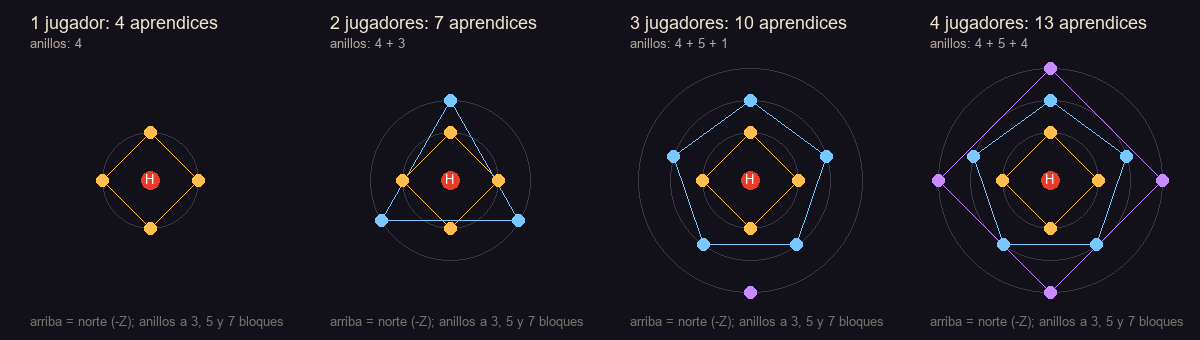
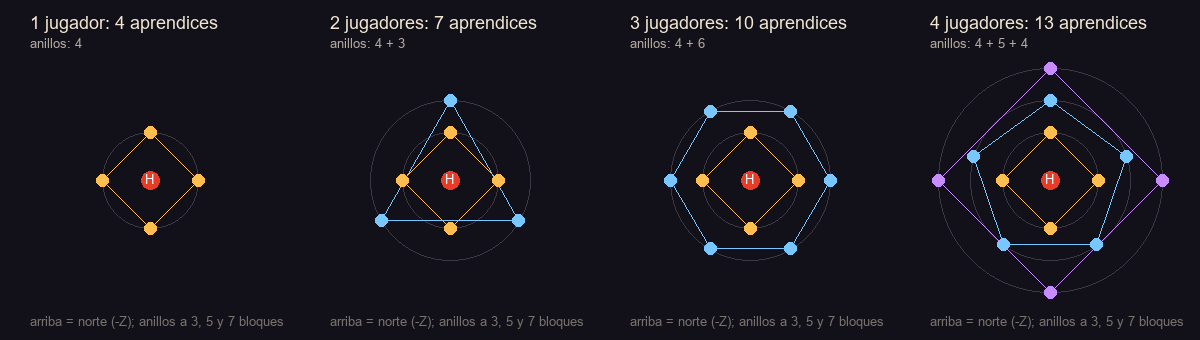
Forja: respuestas de Andy y Reforjado estelar en el diseño de la dimensión del Herrero
Nombres, oricalco, 4 + 6 aprendices, revancha con fragua fría en el centro,
Estrella que pasa el tope de armadura y los tres eventos aprobados; propuesta del
Reforjado estelar (su invulnerabilidad de la mitad solo la rompe la dimensión).

diff --git a/forja/docs/HERRERO_DIMENSION.md b/forja/docs/HERRERO_DIMENSION.md
@@ -12,9 +12,10 @@ recompensa esperan a que Andy revise la dimensión. Cada sección dice en qué e
 
 | Entrega | Qué lleva | Estado |
 |---|---|---|
-| 1 | Dimensión: terreno, arena, cielo, niebla, luz, partículas, sonido y música; `/forja dimension` | en esta rama |
+| 1 | Dimensión: terreno, arena, cielo, niebla, luz, partículas, sonido y música; `/forja dimension` | hecha y revisada por Andy |
+| 1b | Arreglos de la revisión: sol bajo el vacío, tumbas que caen con su suelo, tumbas vistas desde el sur, meseta según la semilla, estrellas fugaces y cielo que se mueve | en esta rama |
 | 2 | Oricalco, perla de oricalco, marco del portal, portal, retirada de la invocación vieja | pendiente de Andy |
-| 3 | Pelea nueva: llegada, fases a 2/3 y 1/3, aprendices en formación, eventos, persistencia, estrella de vuelta y recompensa | pendiente de Andy |
+| 3 | Pelea nueva: llegada, fases a 2/3 y 1/3, aprendices en formación, eventos, reforjado estelar, persistencia, estrella de vuelta, revancha y recompensa | diseño aprobado en parte (ver 6); pendiente |
 
 ---
 
@@ -121,7 +122,9 @@ lo comprueba. La rotonda se queda como sala del portal, sin bloqueo de construcc
 ### 2.2 El generador: barato a propósito
 
 Un generador propio (`world/StarYardGenerator`), **sin ruido**: cada columna se calcula con unas pocas sumas de
-senos y un hash, sin muestrear nada. Todo lo que no es la meseta es aire, que es lo más barato que hay. No tiene
+senos y un hash, sin muestrear nada. **La meseta depende de la semilla del mundo** (Andy, revisión de la entrega 1):
+`world/StarYardLayout` saca de la semilla, una sola vez, unas pocas decenas de números (ver 2.3) y luego cada
+columna usa esos números y un hash que lleva la semilla. La arena es la misma en todos los mundos. Todo lo que no es la meseta es aire, que es lo más barato que hay. No tiene
 estructuras, así que `/locate` no tiene nada que buscar aquí y no puede congelar el juego; el teletransporte carga
 chunks casi vacíos. Medido en la entrega 1 (ver 2.9).
 
@@ -136,17 +139,30 @@ Coordenadas con el centro de la arena en (0, 0). La superficie base está en **y
 | **Explanada** (el Taller) | 24 a 34 | obsidiana y piedra negra | 4 pilares con braseros de metal fundido; plataforma de llegada al norte |
 | **Cementerio en filas** | 34 a 72 | ceniza | tumbas en anillos alrededor de la arena, cada 4 bloques |
 | **Cementerio disperso** | 72 al borde | ceniza, ceniza prensada, basalto | armas sueltas, campos de fosas y forjas frías |
-| **Borde** | 124 a 176 (ondulado) | cantil de obsidiana | se cae al vacío |
+| **Borde** | unos 108 a 192, según la semilla | cantil de obsidiana | se cae al vacío |
 
-- **Forma del borde:** radio `150 + 14 sen(3θ + 1,1) + 8 sen(7θ + 2,3) + 4 sen(13θ + 0,4)`, entre 124 y 176
-  bloques. No es un círculo: tiene cabos y ensenadas.
-- **Relieve:** la arena y la explanada son planas. Desde el radio 34 la ceniza ondula ±3 bloques con suavidad, y
-  llega entera al radio 54.
+**Lo que cambia con la semilla** (lo demás es fijo):
+
+| Qué | Cómo varía |
+|---|---|
+| Forma del borde | radio base de 138 a 162, más tres ondas de 2–4, 5–8 y 9–14 lóbulos, de 10–16, 5–9 y 2–5 bloques de alto y giro al azar |
+| Ríos | de 2 a 4, repartidos alrededor con ±20° de juego (nunca a menos de 70° uno de otro); cada uno serpentea con dos ondas propias (6–11 y 3–5 bloques) |
+| Puentes | uno entre 70 y 82 bloques del centro y otro entre 100 y 120 |
+| Islotes | de 5 a 9, de 7 a 18 de radio, a entre 25 y 95 bloques del borde y a y 55–120, sin pisarse |
+| Tumbas | separación en las filas de 3,0 a 3,6; sueltas del 4 al 6 %; en fosas del 12 al 20 %; una celda de fosas de cada 4 a 6 |
+| Forjas frías | celdas de 22 a 26 bloques, una de cada dos |
+| Relieve y manchas | las ondas de la ceniza, las manchas de ceniza prensada y los afloramientos de basalto se estiran y desplazan; las manchas van torcidas por otra onda para que no salgan en filas |
+| Cada elección suelta | (qué arma, qué inclinación, grietas del suelo…) lleva la semilla en el hash |
+
+- **La arena no cambia:** su suelo, su muro, los pilares y la plataforma de llegada son los mismos en todos los
+  mundos (lo comprueba `theSeedShapesThePlateauButNotTheArena`, que también dibuja los mapas de dos semillas).
+- **Relieve:** la arena y la explanada son planas. Desde el radio 34 la ceniza ondula unos ±3 bloques con suavidad,
+  y llega entera al radio 54.
 - **Por debajo:** la meseta es un cono invertido de 4 a 68 bloques de grueso (más gruesa en el centro), con capas de
   ceniza (2), obsidiana (2 o 3: la "losa del Taller", que se ve como una franja negra en los cantiles), piedra negra
   y basalto, y betas de obsidiana llorona.
-- **Islotes:** 7 islotes de obsidiana flotan alrededor, entre 205 y 262 bloques del centro y a distintas alturas
-  (y 55 a 118), de 7 a 18 de radio. Algunos llevan una tumba o una forja rota. Son lo que se ve a lo lejos.
+- **Islotes:** de 5 a 9 islotes de obsidiana flotan alrededor, a distintas alturas. Algunos llevan una tumba. Son
+  lo que se ve a lo lejos.
 
 ### 2.4 La arena y la llegada
 
@@ -167,13 +183,18 @@ Coordenadas con el centro de la arena en (0, 0). La superficie base está en **y
   punta, medio hundida. 6 armas: espada, espada negra, hacha, tridente, maza y pico, con las texturas vanilla
   recoloreadas a hierro oxidado y quemado. 4 orientaciones y 3 inclinaciones (0°, 22,5° hacia un lado y hacia el
   otro) por arma.
-- **En filas (radio 34 a 72):** anillos cada 4 bloques y una tumba cada 3,2 bloques de anillo, mirando a la
-  arena. Falta una de cada 7 (tumbas saqueadas). Unas 450.
-- **Dispersas (radio 72 al borde):** un 5 % de las columnas, y un 16 % en los "campos de fosas" (celdas de 16 × 16
-  que salen 1 de cada 5). Unas **3.500 tumbas** en total. Una de cada cinco tiene un montón de ceniza prensada
-  debajo.
-- **Forjas frías:** en celdas de 24 × 24, una de cada dos tiene una forja en ruinas, lejos de los ríos y de la
-  arena (radio 76 al borde menos 14). Salen 37. Tres modelos:
+  - **Se ven bien desde los cuatro lados** (arreglo de la revisión): la cara de atrás de la carta llevaba la misma
+    uv que la de delante, y como una cara norte recorre la x al revés, desde el norte el arma salía tumbada. Ahora
+    cada cara trasera tiene la uv que pone el mango y la cabeza en el mismo sitio que la delantera.
+  - **Caen con su suelo** (arreglo de la revisión): si se quita el bloque de debajo, el arma desaparece sin soltar
+    nada, como una antorcha sin pared. Rota a mano tampoco suelta nada. No se puede poner en el aire.
+- **En filas (radio 34 a 72):** anillos cada 4 bloques y una tumba cada 3,0–3,6 bloques de anillo (según la
+  semilla), mirando a la arena. Falta una de cada 7 (tumbas saqueadas).
+- **Dispersas (radio 72 al borde):** del 4 al 6 % de las columnas, y del 12 al 20 % en los "campos de fosas"
+  (celdas de 16 × 16, una de cada 4 a 6). Entre **3.000 y 5.100 tumbas** según la semilla (medido en 5 semillas).
+  Una de cada cinco tiene un montón de ceniza prensada debajo.
+- **Forjas frías:** en celdas de 22 a 26 bloques, una de cada dos tiene una forja en ruinas, lejos de los ríos y de
+  la arena (radio 76 al borde menos 14). Salen de 17 a 42 según la semilla. Tres modelos:
   - **Fragua fría:** suelo de 7 × 7 de ladrillo agrietado, pared del fondo rota, un alto horno apagado con su
     chimenea, un yunque dañado y un caldero vacío.
   - **Yunques rotos:** tres yunques (mellado, dañado y entero) alrededor de una piedra de afilar, y dos armas
@@ -185,11 +206,12 @@ Coordenadas con el centro de la arena en (0, 0). La superficie base está en **y
 
 ### 2.6 El metal fundido (solo decoración)
 
-- **3 ríos** de metal fundido (`forja:metal_fundido`), a 30°, 150° y 270°. Nacen en un pilón a 52 bloques del
+- **De 2 a 4 ríos** de metal fundido (`forja:metal_fundido`), según la semilla. Nacen en un pilón a 52 bloques del
   centro (una piletita con un chorro que cae de un dintel de obsidiana) y serpentean hasta el borde.
 - **Cauce:** 3 de ancho, con el metal un bloque por debajo del suelo. Las dos orillas llevan un **muro** de
   ladrillo de piedra negra pulida (1,5 de alto: no se salta), así que no se puede caer por accidente.
-- **Puentes:** a 76 y 112 bloques del centro, de 5 de ancho, cerrados con muro por los lados.
+- **Puentes:** dos anillos de puentes (entre 70 y 82, y entre 100 y 120 bloques del centro), de 5 de ancho,
+  cerrados con muro por los lados.
 - **Cascadas:** donde un río llega al borde, el metal cae por el cantil hacia el vacío y se pierde abajo, a
   y ≈ 4, soltando gotas.
 - **Si alguien se mete:** quema como la lava (4 de daño por segundo y fuego) y frena, pero se puede salir andando.
@@ -202,24 +224,41 @@ Coordenadas con el centro de la arena en (0, 0). La superficie base está en **y
   **naranja de brasa** justo abajo, como si en el fondo del vacío hubiera lava o un horno. Es un degradado:
   - en el horizonte, violeta oscuro (`#1B1624`), sin brillo;
   - a −30°, granate (`#5A1A12`), a media fuerza;
-  - mirando recto abajo, naranja de brasa (`#FF6A1E`), a toda fuerza, con un halo más claro en el centro que
-    respira despacio (±12 % cada 7 s).
+  - mirando recto abajo, naranja de brasa (`#FF6A1E`), a toda fuerza.
+  - **Un sol debajo** (Andy, revisión de la entrega 1: "como si estuvieras encima de un sol"): al fondo, justo
+    abajo, un cuerpo enorme y cegador. De fuera a dentro:
+    - un halo rojo muy ancho;
+    - 28 rayos largos y finos, cada uno de su largo, que parpadean y giran despacio;
+    - dos coronas que giran una contra otra;
+    - un brillo de calor: 12 manchas de luz que rondan el núcleo y tiemblan;
+    - el núcleo, blanco y amarillo, que ciega.
+
+    Todo respira despacio (±8 % cada 7 s).
+  - **Se apaga con la altura:** entero hasta 30 bloques por encima de la arena (y = 110) y apagado a 90 por encima
+    (y = 170). Tiene que apagarse: el sol cuelga dentro de la distancia que la niebla deja limpia, y desde muy alto
+    la meseta queda más lejos que él, así que se dibujaba delante de ella.
   - La **niebla** hace lo mismo: cuanto más miras hacia abajo, más se tiñe de brasa (hasta un 55 % mirando recto
     abajo), y también cuanto más bajo estás (a y = 20 ya es media brasa).
-  - **Brasas que suben:** chispas que brillan solas suben despacio desde el fondo por debajo de la meseta, fuera de
-    su sombra (unas 3 por tick alrededor del jugador, de 10 a 60 bloques por debajo de él).
+  - **Brasas que suben:** chispas que brillan solas suben despacio desde el fondo (unas 3 por tick alrededor del
+    jugador, de 10 a 60 bloques por debajo de él), donde no hay meseta encima o por debajo de y = 8. El cliente lo
+    mira en su propio mapa de alturas, porque la forma de la meseta es de la semilla y el cliente no la sabe.
 - **Estrellas:** por debajo del horizonte se apagan en el resplandor: del todo a −35°.
 - **Estrellas:** las 1.500 de vanilla a brillo pleno, y 900 más del mod, de colores (blancas, azules, doradas y
   alguna roja), que titilan despacio.
-- **Una franja de nebulosa** (como una vía láctea) de violeta a ámbar, cruzando el cielo.
+- **Una franja de nebulosa** (como una vía láctea) de violeta a ámbar, cruzando el cielo. Deriva un poco más
+  deprisa que las estrellas, respira (±20 % cada 23 s) y sus nudos más brillantes se deslizan despacio a lo largo.
+- **Estrellas fugaces** (Andy, revisión): unas 4 por minuto, al azar, bien por encima del horizonte. Cada una es un
+  destello de un cuarto a dos quintos de segundo con una cola corta que se afina.
 - **8 constelaciones que dibujan moldes de armas**, repartidas por el cielo: **Espada, Hacha, Martillo, Lanza,
   Escudo, Yunque, Tenazas y Guadaña**. Cada una es un contorno de 8 a 14 estrellas grandes unidas por líneas
   tenues, como el hueco de un molde visto desde arriba.
 - **La colada del cielo:** cada 40 segundos una constelación "se cuela": un hilo de metal dorado recorre sus líneas
   de un extremo a otro en 6 s, se queda encendida 4 s y se enfría. En la pelea (entrega 3) es el aviso del evento
   *Molde celeste*.
-- Todo gira muy despacio alrededor del eje norte-sur (una vuelta cada 40 minutos), para que el cielo esté vivo.
-- **Día o noche:** no hay. Es siempre la misma noche; lo que cambia es la colada y el giro.
+- **El cielo se mueve** (Andy, revisión): estrellas, nebulosa y constelaciones giran alrededor del eje norte-sur,
+  **una vuelta cada 12 minutos** (medio grado por segundo; antes era cada 40 minutos y no se notaba). Quieto y
+  mirando arriba se ve moverse; en 10 s la hoja de contactos lo muestra.
+- **Día o noche:** no hay. Es siempre la misma noche; lo que cambia es la colada, el giro y las estrellas fugaces.
 
 ### 2.8 Ambiente
 
@@ -270,7 +309,7 @@ Cuando un jugador entra en la dimensión y no hay pelea en curso:
 | Fase | Vida | Qué cambia |
 |---|---|---|
 | 1 | 100 % a 66,7 % (320 a 213) | golpe, onda, "La forja reclama". **Sin aprendices.** |
-| 2 | 66,7 % a 33,3 % (213 a 107) | primera oleada; se suma el garfio y el reforjado de ascuas |
+| 2 | 66,7 % a 33,3 % (213 a 107) | primera oleada; se suma el garfio; **a la mitad (160), el Reforjado estelar** (3.7) |
 | 3 | 33,3 % a 0 | segunda oleada; lluvia de estrellas, yunques del final |
 
 Las fases viejas (75 %, 50 % y 25 %) desaparecen. Una fase solo se pasa una vez, aunque se cure (no se cura).
@@ -295,7 +334,9 @@ Al cruzar 2/3 y 1/3:
   - el anillo de dentro es un **cuadrado** (4), a 3 bloques;
   - cada anillo siguiente tiene **un vértice más** (pentágono, hexágono…), 2 bloques más afuera (5, 7, 9…);
   - se llenan de dentro afuera;
-  - lo que sobra en el último anillo forma **su propio polígono regular, más pequeño**, en ese mismo radio.
+  - lo que sobra en el último anillo forma **su propio polígono regular, más pequeño**, en ese mismo radio;
+  - **pero si sobran 1 o 2** (que no son un polígono), se suman al anillo anterior, que crece: con 10, el
+    pentágono pasa a **hexágono** y queda 4 + 6 (Andy, respuesta 3). Con 7 sigue siendo cuadrado + triángulo.
 - **Giro:** el primer vértice de cada anillo apunta al sur (+Z). Los anillos impares se giran medio lado para que
   no queden alineados con los de dentro.
 
@@ -303,13 +344,11 @@ Al cruzar 2/3 y 1/3:
 |---|---|---|---|
 | 1 | 4 | cuadrado | (0, 3), (3, 0), (0, −3), (−3, 0) |
 | 2 | 7 | cuadrado + **triángulo** | lo anterior + (4,3, 2,5), (0, −5), (−4,3, 2,5) |
-| 3 | 10 | cuadrado + pentágono + **1** | cuadrado + (2,9, 4), (4,8, −1,5), (0, −5), (−4,8, −1,5), (−2,9, 4) + (0, 7) |
-| 4 | 13 | cuadrado + pentágono + **cuadrado** | lo de 3 sin el (0, 7) + (0, 7), (7, 0), (0, −7), (−7, 0) |
+| 3 | 10 | cuadrado + **hexágono** | cuadrado + (2,5, 4,3), (5, 0), (2,5, −4,3), (−2,5, −4,3), (−5, 0), (−2,5, 4,3) |
+| 4 | 13 | cuadrado + pentágono + **cuadrado** | cuadrado + (2,9, 4), (4,8, −1,5), (0, −5), (−4,8, −1,5), (−2,9, 4) + (0, 7), (7, 0), (0, −7), (−7, 0) |
 
 ![Formaciones](herrero_dimension_formaciones.png)
 
-Con 3 jugadores el resto es 1, y "un polígono de un vértice" es un aprendiz solo, al sur a 7 bloques. Ver las
-decisiones para Andy.
 
 Si un puesto cae en un bloque sólido o fuera de la arena, el aprendiz sale en el punto libre más cercano del
 mismo anillo.
@@ -332,14 +371,60 @@ Cada **35 a 45 s** la dimensión hace algo, por turnos, y nunca durante una lleg
    persecución baja de 48 a 16. Sirve para despistarle o para perderle de vista.
 
 Con los números en `config/forja.json` (`dimensionEventoCada`, `dimensionMoldeDano`, `dimensionCenizaSegundos`…).
+Andy aprobó los tres (respuesta 6).
 
-### 3.7 Morir y volver
+### 3.7 El Reforjado estelar: su invulnerabilidad, rota por la dimensión (propuesta para Andy)
+
+**Lo que hay hoy** (`FallenSmith.startReforge`/`reforge`): a la mitad de la vida, después de llamar a los
+aprendices, vuelve a la forja y **nada le hace daño** mientras reforja (`hurtServer` lo ignora todo si
+`reforging > 0`). Enciende **3 ascuas** (bloques de fuego a 5 bloques), cada ascua encendida le cura un 1 % por
+segundo, y el reforjado dura **160 ticks** (8 s) o hasta que se apaguen las tres. Es corto y se resuelve a
+puñetazos contra el fuego.
+
+**Lo que propongo en la dimensión:** que en esa fase **la dimensión sea el arma**. Él es intocable y lo único que
+rompe su escudo es lo que la dimensión hace caer, arder o derramarse.
+
+1. **Empieza:** a la mitad (160 de vida), se arrodilla en el disco de obsidiana llorona del centro, clava el
+   martillo y el cielo entero se vuelve hacia él: las constelaciones se encienden en oro a la vez. Queda
+   **invulnerable** (como hoy) durante **hasta 20 s** (400 ticks).
+2. **Las Brasas estelares:** en lugar de 3 fuegos, **3 + 1 por jugador extra (hasta 6)** brasas flotantes (una
+   entidad nueva, sin bloque, así que el bloqueo de construir de la arena no molesta), en un anillo de **9 a 12
+   bloques** alrededor de él. Cada una está unida a él por un haz dorado. Mientras quede una:
+   - es invulnerable;
+   - le cura un **1 % por segundo por brasa** (como hoy);
+   - **los golpes de los jugadores no les hacen nada.** Solo las rompe la dimensión.
+3. **Tres maneras de romperlas, las tres de la dimensión:**
+   - **Hierro estelar templado:** al empezar, la dimensión deja caer **un meteorito por brasa**, con su aviso de 34
+     ticks, a entre 10 y 16 bloques de ella. Cada uno deja un **hierro estelar ardiente** (un objeto que quema 10 s
+     en la mano: 1 de daño por segundo a quien lo lleve). Llevarlo hasta una brasa y tocarla con él (clic derecho)
+     la **rompe** ("temple"). El pararrayos, puesto antes de la pelea, sirve para que caigan más cerca.
+   - **Molde celeste redirigido:** cada 8 s durante el reforjado, un molde se proyecta en el suelo **centrado en el
+     jugador al que mira el Herrero**, y a los 3 s arde. Una brasa que quede bajo una línea que arde **se rompe**.
+     El jugador hace de cebo: se coloca para que el molde pase por las brasas, y tiene que salir de la línea a
+     tiempo (6 de daño y fuego si no).
+   - **La colada del brasero:** golpear uno de los 4 braseros de los pilares (con un proyectil, o subiendo) lo
+     **vuelca**: un chorro de metal fundido baja por el pilar y corre en línea recta hacia el centro durante 3 s,
+     1 bloque de ancho, **rompiendo las brasas que toca** y quemando a quien pise (jugadores y aprendices; el metal
+     se enfría y desaparece, la arena no cambia). Cada brasero se vuelca una vez por reforjado y se vuelve a
+     llenar después. Hay que elegir el brasero cuya línea pase por más brasas.
+4. **Si se rompen todas antes de 20 s:** el escudo estalla (la onda morada de fase), y queda **aturdido 5 s**:
+   no ataca y recibe **×1,5 de daño**. Es el premio de usar bien la dimensión.
+5. **Si se acaba el tiempo con brasas encendidas:** se levanta curado de lo que haya curado y con **Temple** 30 s:
+   recibe un **30 % menos** de daño. Es el castigo de no usarla.
+6. **Los eventos normales** (3.6) se paran durante el reforjado: la dimensión está ocupada en él.
+7. **Una vez por pelea.** Si alguien muere o sale, la persistencia (3.8) guarda también si ya hubo reforjado y cuántas
+   brasas quedan.
+
+Números de partida, en `config/forja.json`: `reforjadoTicks` 400, `reforjadoBrasasBase` 3, `reforjadoBrasasMax` 6,
+`reforjadoCuraPorBrasa` 0,01, `reforjadoAturdido` 100 ticks, `reforjadoAturdidoDano` 1,5, `reforjadoTemple` 0,3.
+
+### 3.8 Morir y volver
 
 - Un jugador que muere **reaparece en su punto normal** (su cama o el punto de aparición del mundo), porque en la
   dimensión no se puede fijar otro.
 - Puede volver a entrar: el portal sigue encendido.
 - **La pelea se queda exactamente como estaba:** la vida del jefe, su fase, las oleadas que ya salieron y los
-  aprendices vivos. **No se cura.**
+  aprendices vivos. **No se cura** (salvo por sus brasas durante el Reforjado estelar, como hoy).
 - **Se para mientras no haya ningún jugador en la dimensión:** no se mueve, no ataca, no cuenta esperas ni
   eventos. En cuanto entra alguien, sigue (sin volver a caer del cielo).
 - Lo guarda un `SavedData` de la dimensión: estado (esperando, en pelea, derrotado), el UUID del jefe, la fase, las
@@ -347,7 +432,7 @@ Con los números en `config/forja.json` (`dimensionEventoCada`, `dimensionMoldeD
   el jefe se perdiera, su vida. Sobrevive a guardar y cargar el mundo.
 - Si alguien sale por la estrella de vuelta o se desconecta, cuenta igual que morir.
 
-### 3.8 Cuando muere: la estrella de vuelta
+### 3.9 Cuando muere: la estrella de vuelta
 
 - Al morir, **una estrella cae del cielo** (la misma caída de la llegada, pero blanca y dorada) en el centro de la
   arena, 3 s después.
@@ -356,17 +441,34 @@ Con los números en `config/forja.json` (`dimensionEventoCada`, `dimensionMoldeD
   a tu punto de reaparición).
 - Se queda en la arena hasta que llegue la próxima pelea. Los aprendices que queden se deshacen en ceniza.
 
-### 3.9 Revancha
+### 3.10 Revancha: la fragua fría del centro (Andy, respuesta 4)
 
-Tras una victoria, la dimensión queda en calma **un día de juego** (20 minutos). Pasado ese tiempo, el siguiente
-jugador que entre hace caer al Herrero de nuevo. Ver decisiones.
+- **Al morir el Herrero**, en el centro de la arena (sobre el disco de obsidiana llorona) aparece una **fragua
+  fría** (`forja:fragua_fria_estelar`, la fragua apagada de siempre pero con un hueco para una perla), junto a la
+  estrella de vuelta. No estorba: está en el mismo sitio donde él cae.
+- **Se reaviva** con clic derecho llevando encima:
+
+  | Qué | Cuánto | Por qué |
+  |---|---|---|
+  | Perla de oricalco (la "llave") | 1 | la misma que abre el portal: 2 lingotes de oricalco sobre una perla de ender |
+  | Lingotes de oricalco | 2 | la aleación de todos los metales |
+  | Hierro estelar | 16 | lo que dejan los meteoritos de la dimensión (un par de peleas o una lluvia) |
+  | Corazón de forja | 1 | el que dejó él la vez anterior: se lo devuelves |
+
+  En total, unas **4 tandas de oricalco por revancha menos las 2 de las perlas del portal**: más o menos la mitad
+  de lo que costó abrir el portal, más su corazón.
+- **Al reavivarla**, la fragua se enciende, el cielo se oscurece 3 s y el Herrero **vuelve a caer del cielo** (3.2),
+  con la vida entera y sin aprendices.
+- **Recompensa de la revancha:** la de siempre (el corazón de forja que devolviste vuelve a caer, una leyenda, el
+  martillo del maestro; el yunque del Herrero solo la primera vez) y **otra Estrella forjada por participante**.
+- **Límite:** una Estrella por pieza, así que repetirla solo sirve para estrellar más piezas.
 
 ---
 
 ## 4. La recompensa: la **Estrella forjada** (entrega 3)
 
 Lo que da hoy (corazón de forja, una leyenda, el yunque del Herrero y el martillo del maestro) se queda. Además, a
-**cada jugador que participó** (ver 3.7) le cae **una Estrella forjada** (`forja:estrella_forjada`), a sus pies o
+**cada jugador que participó** (ver 3.8) le cae **una Estrella forjada** (`forja:estrella_forjada`), a sus pies o
 en el inventario si está en la dimensión, y guardada para cuando entre si no estaba.
 
 ### 4.1 Qué hace
@@ -382,12 +484,15 @@ pieza, para siempre (componente `ESTRELLADA`):
 | Bono de daño del material (armas y herramientas) | corazón 4,5 | ×1,12: **5,04** |
 | Durabilidad | corazón 2.400 | ×1,5: **3.600** |
 | Velocidad de minado (herramientas) | la del material | ×1,12 |
-| Armadura | la del material | **igual** (solo carga y durabilidad) |
+| Armadura | la del material | **+1 de armadura y +0,5 de dureza por pieza** (juego entero: +4 y +2) |
 | Aspecto | | un brillo de estrellas en la pieza y el nombre en dorado |
 
-- **Por qué la armadura no sube:** `ArmaduraGameTests` exige que ningún juego pase de netherita P4 + 5 puntos, y el
-  obsidiacero ya llega a +5,9 en el peor caso. La Estrella le da a la armadura más carga (más mejoras) y más
-  durabilidad, no más defensa directa.
+- **La armadura sí sube** (Andy, respuesta 5: puede pasar el tope): +1 de armadura y +0,5 de dureza por pieza
+  estrellada, además de la carga y la durabilidad. Cuánto para de más un juego entero se medirá con
+  `ArmaduraGameTests` al construirlo (hoy el de corazón para un 86,0 % del golpe contundente al torso).
+- **`ArmaduraGameTests` cambia:** el tope sigue en netherita P4 + 5 puntos para las piezas sin estrella; para un
+  juego con estrellas el tope pasa a **netherita P4 + 5 + 2 por pieza estrellada** (+13 con las 4), y una prueba
+  nueva comprueba que un juego estrellado queda por encima del mismo sin estrellar y por debajo de ese tope.
 - **Cuánto es:** una espada de corazón perfecta pasa de 4,5 a 5,04 de bono y de 20 a 26 puntos de mejora. Con esos
   6 puntos caben una o dos mejoras más (una de peso 4 y una de 2, o tres de 2). Es un salto claro sobre lo mejor que
   hay, pero no multiplica: el mismo arma, un 20 a 30 % más fuerte en total.
@@ -402,7 +507,24 @@ recoloreada.
 
 ## 5. Pruebas previstas
 
-### Entrega 1 (esta rama)
+### Entrega 1b (arreglos de la revisión, esta rama)
+
+- **Servidor (`DimensionGameTests`)**, ahora en 5 semillas: arena llana y despejada en todas, sin metal fundido
+  cerca de la arena en ninguna, tumbas (3.014 a 5.099), forjas (17 a 42), cascadas y al menos 5 islotes en todas;
+  `theSeedShapesThePlateauButNotTheArena` (borde, ríos, islotes y forjas cambian; la arena no; la misma semilla da
+  las mismas columnas; dibuja los mapas de las semillas 1 y 42); `aGraveFallsWithItsGroundAndDropsNothing`.
+- **Cliente (`FORJA_SOLO=dimension`)**, en dos mundos con semillas "cementerio-uno" y "cementerio-dos":
+  - el sol visto desde el borde, recto abajo y desde debajo de la meseta;
+  - el cielo a los 0 y a los 10 s, y estrellas fugaces;
+  - las 72 armas clavadas (6 armas × 3 inclinaciones × 4 orientaciones) vistas desde el norte, el sur, el este y
+    el oeste;
+  - un arma sobre un bloque de ceniza, y después de quitar la ceniza (comprueba que no queda ni el arma ni un
+    objeto);
+  - las mismas vistas en las dos semillas, y la meseta vista desde arriba en las dos.
+
+  Hojas en `E:\IA\Claude\Forja_capturas_mejoras\dimension_herrero\entrega_1b\`.
+
+### Entrega 1
 
 - **Servidor (`DimensionGameTests`):** el servidor de pruebas no carga las dimensiones de los datapacks, así que
   aquí se comprueba el generador directamente (es una función pura de la columna):
@@ -435,15 +557,25 @@ recoloreada.
 
 ---
 
-## 6. Decisiones para Andy
+## 6. Respuestas de Andy y lo que queda por decidir
 
-1. **Nombre:** "El Cementerio entre Estrellas" para la dimensión, "oricalco" para la aleación, "perla de
-   oricalco", "Estrella forjada" para la recompensa. ¿Te valen?
-2. **Oricalco sin el corazón de forja ni el acero vivo:** los dos solo salen del jefe. ¿De acuerdo?
-3. **Con 3 jugadores sobra 1 aprendiz:** sale solo, al sur a 7 bloques. ¿O prefieres que el sobrante se reparta
-   en el anillo anterior (4 + 6)?
-4. **Revancha:** ¿el jefe vuelve tras un día de juego y da otra Estrella a cada uno? (Con una por pieza, farmearlo
-   solo sirve para mejorar más piezas.)
-5. **La Estrella no sube la armadura directa**, solo la carga y la durabilidad. ¿O prefieres saltarte el tope de
-   netherita P4 + 5 para las piezas estrelladas?
-6. **Eventos:** meteoritos, molde celeste y tormenta de ceniza, cada 35 a 45 s. ¿Te gustan, o cambio alguno?
+**Respuestas (revisión de la entrega 1):**
+
+1. **Nombres aprobados:** El Cementerio entre Estrellas, oricalco, perla de oricalco, Estrella forjada.
+2. **Oricalco sin corazón de forja ni acero vivo:** aprobado.
+3. **Con 10 aprendices, 4 + 6:** lo que sobra se suma al anillo, que pasa a hexágono (ver 3.5).
+4. **Revancha:** al morir aparece una fragua fría en el centro de la arena; se reaviva con materiales y una perla
+   de oricalco, y cada participante recibe otra Estrella (ver 3.10).
+5. **La Estrella puede pasar el tope de armadura** de netherita P4 + 5; `ArmaduraGameTests` se ajusta para las
+   piezas estrelladas (ver 4.1).
+6. **Los tres eventos aprobados:** meteoritos, molde celeste y tormenta de ceniza, cada 35 a 45 s.
+7. **Las forjas hundidas en el terreno están bien.**
+
+**Por decidir:**
+
+1. **Reforjado estelar (3.7):** ¿te gusta que su invulnerabilidad de la mitad solo se rompa con la dimensión
+   (hierro estelar templado, molde celeste redirigido y colada del brasero), con aturdido ×1,5 si lo consigues y
+   Temple −30 % si no?
+2. **Coste de la revancha (3.10):** 1 perla de oricalco, 2 lingotes de oricalco, 16 hierros estelares y el corazón
+   de forja. ¿Te parece bien?
+3. **Armadura estrellada (4.1):** +1 de armadura y +0,5 de dureza por pieza. ¿Te vale?
